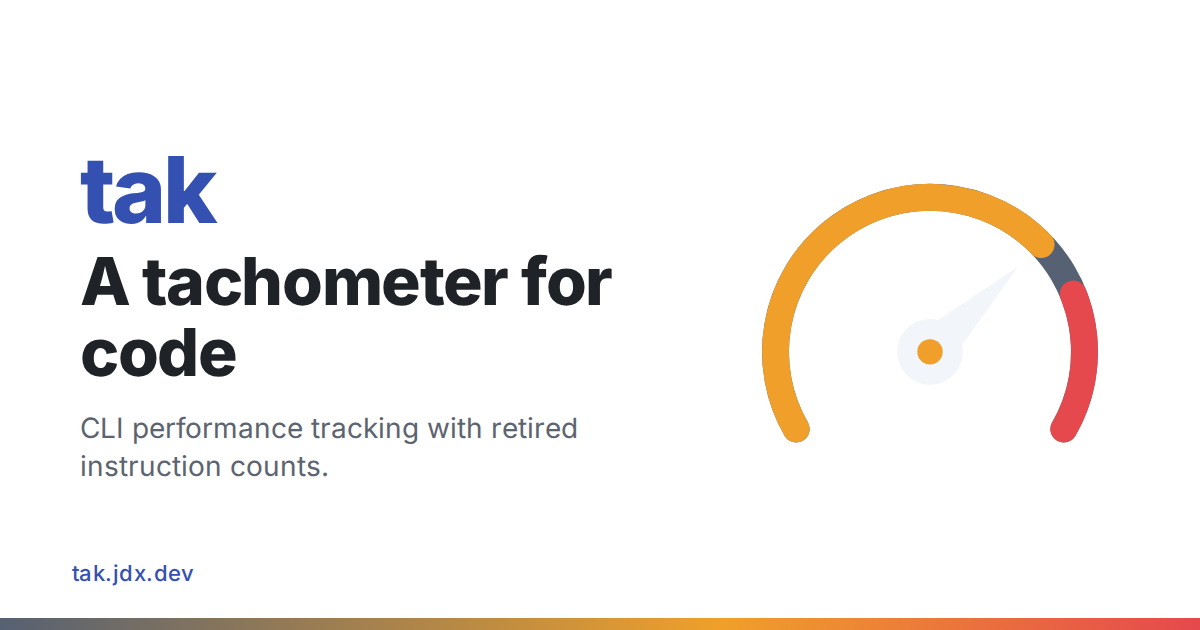
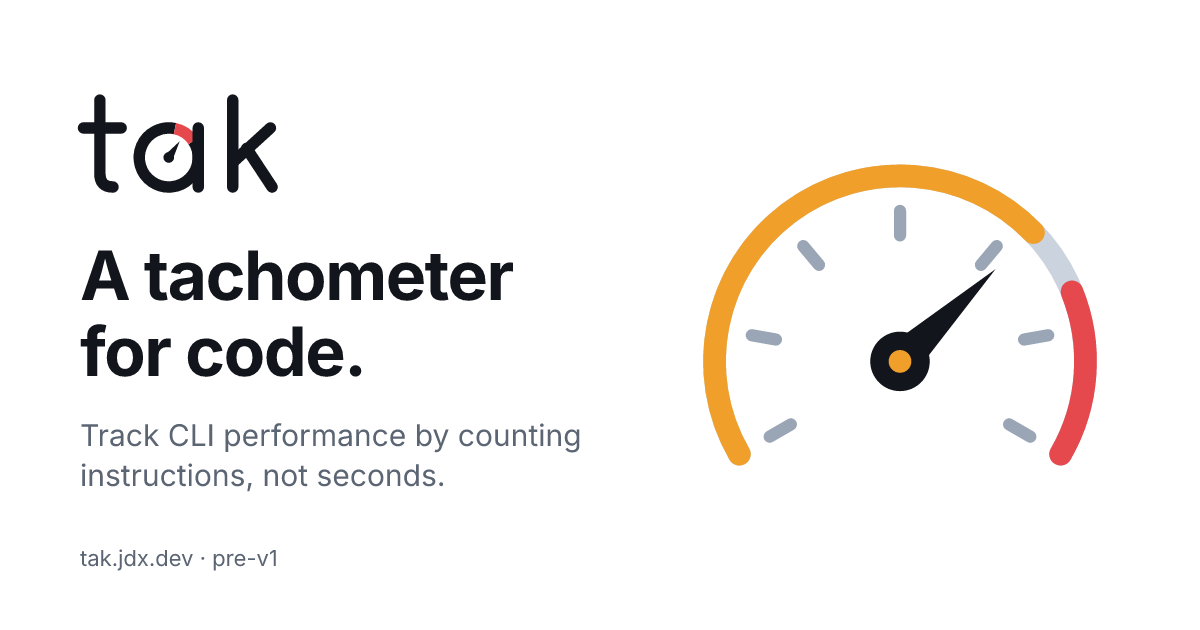
docs: redraw the share card without "retired instruction counts" jargon (#174)

diff --git a/assets/og.py b/assets/og.py
@@ -1,0 +1,74 @@
+#!/usr/bin/env python3
+"""Generate docs/public/og.png, the 1200x630 share card.
+
+The card is assembled from the logo family (run logo.py first if the mark
+changed), so the dial and wordmark cannot drift from the real ones. Text is
+set in Inter, which is not vendored; point --fonts at a directory holding
+Inter-Bold.ttf and Inter-Regular.ttf (the rsms/inter release zip has them
+under extras/ttf/). Needs `pip install resvg-py`.
+
+    python3 assets/og.py --fonts /path/to/inter/extras/ttf
+"""
+import argparse
+import pathlib
+import re
+
+import resvg_py
+
+HERE = pathlib.Path(__file__).resolve().parent
+OUT = HERE.parent / "docs" / "public" / "og.png"
+
+W, H = 1200, 630
+INK, MUTED = "#12161C", "#5B6573"
+
+# the mark's ink bounds inside its 256 box, as in logo.py
+M_L, M_T, M_W, M_H = 15.5, 41.5, 225.0, 172.0
+
+
+def inner(name):
+    """the drawing inside an SVG, without the wrapper or the dark-mode <style>:
+    resvg does not evaluate @media, and a share card is light regardless"""
+    text = (HERE / name).read_text()
+    text = re.sub(r"<style>.*?</style>", "", text, flags=re.S)
+    return re.search(r"<svg[^>]*>(.*)</svg>", text, flags=re.S).group(1)
+
+
+def card():
+    # the dial is the subject, so it gets the right half and is centred on its
+    # own ink rather than on its 256 box
+    s = 1.75
+    cx, cy = 900, 315
+    dx, dy = cx - (M_L + M_W / 2) * s, cy - (M_T + M_H / 2) * s
+    return f"""<svg xmlns="http://www.w3.org/2000/svg" width="{W}" height="{H}" viewBox="0 0 {W} {H}">
+  <rect width="{W}" height="{H}" fill="#FFFFFF"/>
+  <g transform="translate({dx:.1f},{dy:.1f}) scale({s})">{inner("tak-mark.svg")}</g>
+  <g transform="translate(72,64) scale(0.82)">{inner("tak-wordmark.svg")}</g>
+  <g font-family="Inter" fill="{INK}">
+    <text x="80" y="300" font-size="68" font-weight="700" letter-spacing="-1.5">A tachometer</text>
+    <text x="80" y="376" font-size="68" font-weight="700" letter-spacing="-1.5">for code.</text>
+    <g font-size="30" font-weight="400" fill="{MUTED}">
+      <text x="80" y="446">Track CLI performance by counting</text>
+      <text x="80" y="486">instructions, not seconds.</text>
+    </g>
+    <text x="80" y="566" font-size="22" font-weight="400" fill="{MUTED}">tak.jdx.dev  ·  pre-v1</text>
+  </g>
+</svg>
+"""
+
+
+if __name__ == "__main__":
+    ap = argparse.ArgumentParser(description=__doc__.split("\n")[0])
+    ap.add_argument("--fonts", required=True, help="directory with Inter-Bold.ttf and Inter-Regular.ttf")
+    args = ap.parse_args()
+    fonts = pathlib.Path(args.fonts)
+    for face in ("Inter-Bold.ttf", "Inter-Regular.ttf"):
+        if not (fonts / face).is_file():
+            raise SystemExit(f"{fonts / face} not found")
+    png = resvg_py.svg_to_bytes(
+        svg_string=card(),
+        skip_system_fonts=True,
+        font_files=[str(fonts / "Inter-Bold.ttf"), str(fonts / "Inter-Regular.ttf")],
+        font_family="Inter",
+    )
+    OUT.write_bytes(bytes(png))
+    print(f"{OUT.relative_to(HERE.parent)} {len(png)}b")

diff --git a/assets/README.md b/assets/README.md
@@ -68,6 +68,16 @@ survive the whole size range:
 | `-small` | 18 | no | 32–48px — the ticks turn to mush below ~48 |
 | `-tiny` | 30 | no | 16px — an 18px ring lands under one device pixel and antialiases to brown mud |
 
+## Share card
+
+`docs/public/og.png` (1200x630) is built by [`og.py`](og.py) from the mark and
+wordmark above, so it cannot drift from them. It sets its text in Inter, which is
+not vendored, so point it at a copy:
+
+```bash
+pip install resvg-py && python3 assets/og.py --fonts /path/to/inter/extras/ttf
+```
+
 ## Favicons
 
 `docs/public/` holds the generated favicon set, in the same layout as mise, hk,
